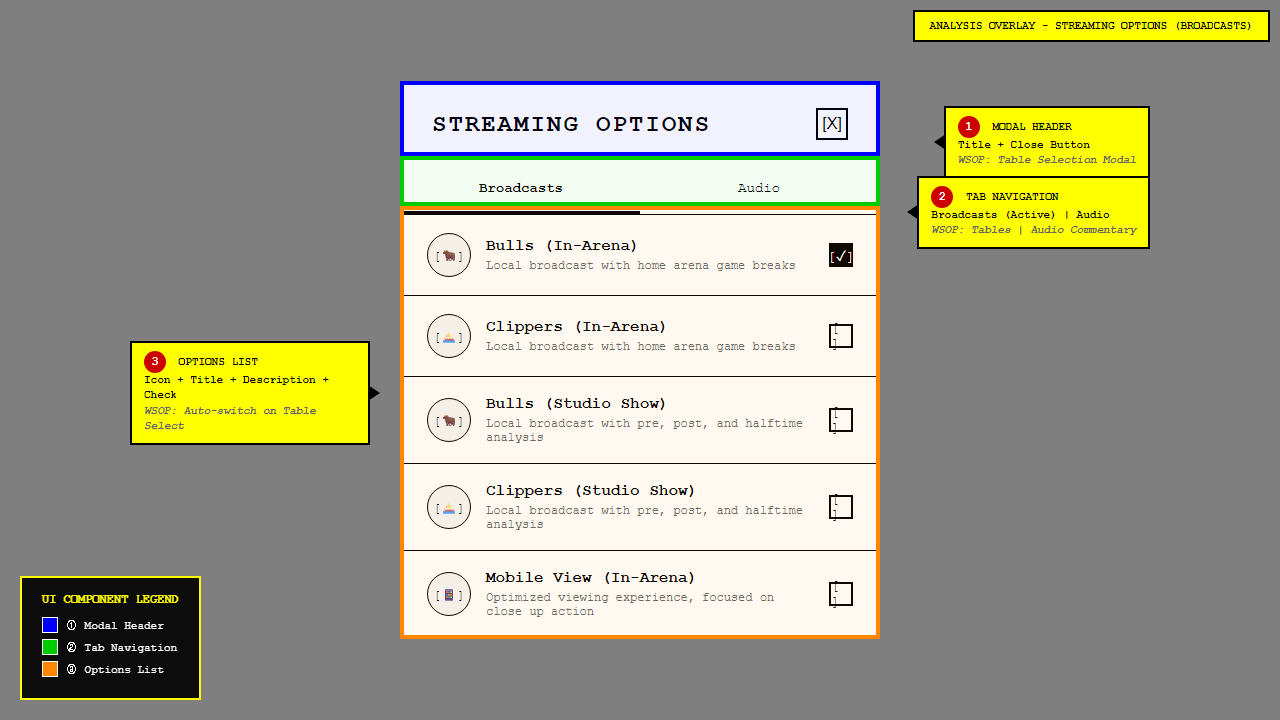
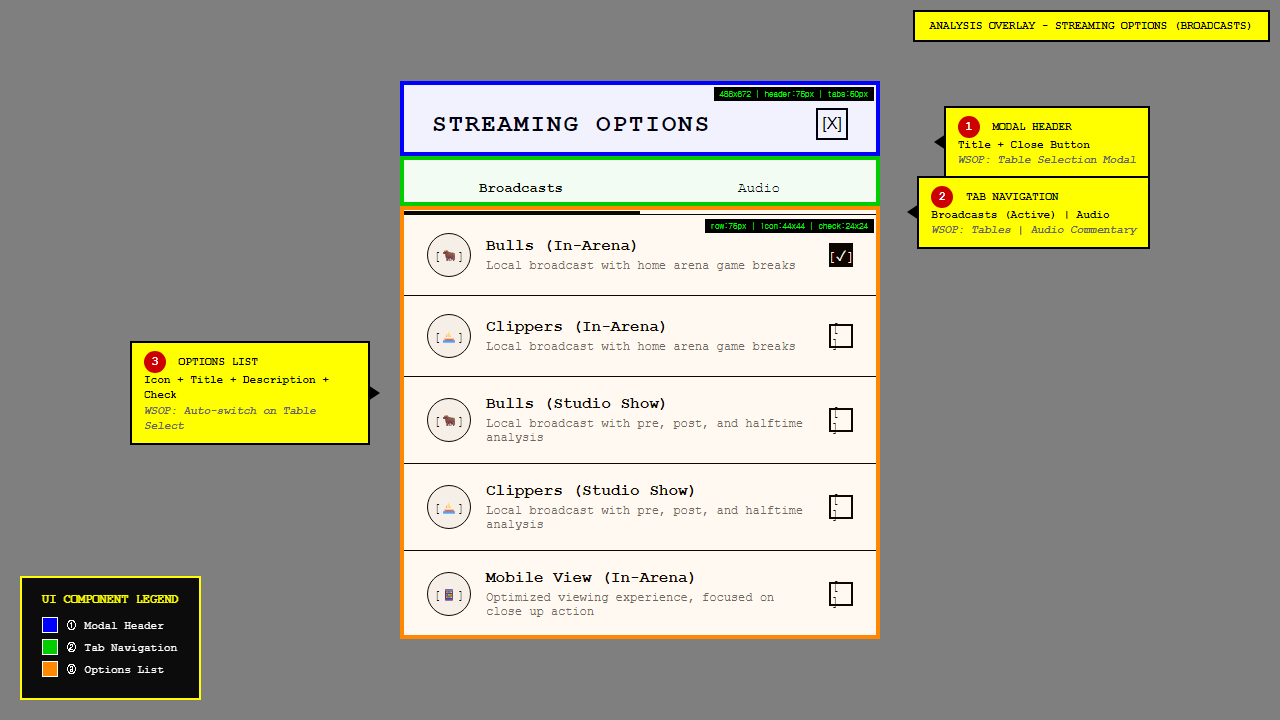
feat(mockups): 분석 목업에 픽셀 크기 오버레이 추가
- 01-main-streaming: 각 섹션별 픽셀 라벨 추가
  (ticker:105px, ad:90px, header:60px, tabs:55px, timeline:40px, controls:65px)
- 02-streaming-options: 모달 크기 라벨 (488x672, row:75px)
- 03-streaming-options-audio: 모달 크기 라벨 (486x674)
- 06-info-summary: 그리드 비율 라벨 (70%:30%)

픽셀 오버레이 스타일: 검정 배경 + 녹색 텍스트 (.px-label)

Changed region(s): [[0.5312, 0.3056, 0.6875, 0.3361], [0.5625, 0.1222, 0.6875, 0.1528]]

diff --git a/docs/mockups/nbatv-analysis/01-main-streaming-analysis.html b/docs/mockups/nbatv-analysis/01-main-streaming-analysis.html
@@ -125,6 +125,23 @@
       border: 1px solid #fff;
     }
 
+    /* ========== PIXEL SIZE LABELS ========== */
+    .px-label {
+      position: absolute;
+      background: #000;
+      color: #0f0;
+      padding: 2px 6px;
+      font-size: 9px;
+      font-family: monospace;
+      z-index: 300;
+      white-space: nowrap;
+    }
+    .px-label.top { top: -18px; left: 50%; transform: translateX(-50%); }
+    .px-label.left { left: -50px; top: 50%; transform: translateY(-50%); writing-mode: vertical-rl; }
+    .px-label.right { right: -50px; top: 50%; transform: translateY(-50%); writing-mode: vertical-rl; }
+    .px-label.bottom { bottom: -18px; left: 50%; transform: translateX(-50%); }
+    .px-label.inner { top: 4px; right: 4px; }
+
     /* ========== SECTION HIGHLIGHT OVERLAYS ========== */
     .wireframe-container {
       position: relative;
@@ -533,6 +550,7 @@
     <!-- 1. SCOREBOARD TICKER -->
     <div class="scoreboard-ticker">
       <div class="section-highlight ticker-hl"></div>
+      <div class="px-label inner">h:105px | date:45px | card:145px</div>
       <div class="ticker-date">
         <span class="day">TUE</span>
         <span>JAN</span>
@@ -643,6 +661,7 @@
     <!-- 2. AD BANNER -->
     <div class="ad-banner">
       <div class="section-highlight ad-hl"></div>
+      <div class="px-label inner">h:90px | img:150x70 | promo:170x70</div>
       <div class="ad-image">[Product Image]<br>H60 Pro</div>
       <div class="ad-content">
         <div class="ad-logo">[Logo]</div>
@@ -655,6 +674,7 @@
     <!-- 3. GAME HEADER -->
     <div class="game-header">
       <div class="section-highlight header-hl"></div>
+      <div class="px-label inner">h:60px | padding:15px 20px</div>
       <div class="game-title">CLIPPERS @ BULLS</div>
       <div class="broadcast-info">
         <span class="icon">[B]</span>
@@ -665,12 +685,14 @@
 
     <!-- 4. VIDEO PLAYER -->
     <div class="video-player">
+      <div class="px-label inner">aspect-ratio:16/9 (~480px @1280w)</div>
       <div class="video-placeholder">[LIVE VIDEO STREAM]</div>
     </div>
 
     <!-- 5. STREAM TABS -->
     <div class="stream-tabs">
       <div class="section-highlight tabs-hl"></div>
+      <div class="px-label inner">h:55px | btn:8px 16px | radius:18px</div>
       <button class="stream-tab active">
         <span class="tab-icon">📡</span>
         Streams
@@ -689,6 +711,7 @@
     <!-- 6. TIMELINE -->
     <div class="timeline">
       <div class="section-highlight timeline-hl"></div>
+      <div class="px-label inner">h:40px | bar:4px</div>
       <div class="timeline-time">01:35:55</div>
       <div class="timeline-bar">
         <div class="timeline-progress"></div>
@@ -699,6 +722,7 @@
     <!-- 7. PLAYER CONTROLS -->
     <div class="player-controls">
       <div class="section-highlight controls-hl"></div>
+      <div class="px-label inner">h:65px | btn:36x36 | large:44x44</div>
       <div class="controls-left">
         <button class="control-btn large">[||]</button>
         <button class="control-btn">[<<]</button>

diff --git a/docs/mockups/nbatv-analysis/06-info-summary-analysis.html b/docs/mockups/nbatv-analysis/06-info-summary-analysis.html
@@ -120,6 +120,19 @@
       border: 1px solid #fff;
     }
 
+    /* ========== PIXEL SIZE LABELS ========== */
+    .px-label {
+      position: absolute;
+      background: #000;
+      color: #0f0;
+      padding: 2px 6px;
+      font-size: 9px;
+      font-family: monospace;
+      z-index: 300;
+      white-space: nowrap;
+    }
+    .px-label.inner { top: 4px; right: 4px; }
+
     /* ========== SECTION OVERLAYS ========== */
     .page-wrapper {
       position: relative;
@@ -382,6 +395,7 @@
     <!-- Info Tabs -->
     <div class="info-tabs">
       <div class="section-highlight tabs-hl"></div>
+      <div class="px-label inner">h:50px | tab:15px 30px</div>
       <div class="info-tab active">Summary</div>
       <div class="info-tab">Box Score</div>
       <div class="info-tab">Game Charts</div>
@@ -391,6 +405,7 @@
     <!-- Ad Banner -->
     <div class="ad-banner">
       <div class="section-highlight ad-hl"></div>
+      <div class="px-label inner">h:90px</div>
       <div class="ad-image">[Product]<br>H60 Pro</div>
       <div class="ad-text">[AD TEXT: Product Description Here]</div>
       <button class="ad-cta">OPEN</button>
@@ -401,6 +416,7 @@
       <!-- Article Section -->
       <div class="article-section">
         <div class="section-highlight article-hl"></div>
+        <div class="px-label inner">w:70% | padding:30px</div>
         <h1 class="article-title">BULLS ENDEAVOR TO REVERSE SERIES TREND AGAINST CHARGING CLIPPERS</h1>
         <div class="article-meta">Tuesday, January 20th, 2026 11:20 AM</div>
         <span class="article-tag">Game Preview</span>
@@ -427,6 +443,7 @@
       <!-- Sidebar -->
       <div class="sidebar">
         <div class="section-highlight sidebar-hl"></div>
+        <div class="px-label inner">w:30% | infoRow:50px</div>
         <div class="sidebar-section">
           <div class="sidebar-title">GAME INFO</div>
           <div class="info-row">

diff --git a/docs/mockups/nbatv-analysis/02-streaming-options-broadcasts-analysis.html b/docs/mockups/nbatv-analysis/02-streaming-options-broadcasts-analysis.html
@@ -117,6 +117,19 @@
       border: 1px solid #fff;
     }
 
+    /* ========== PIXEL SIZE LABELS ========== */
+    .px-label {
+      position: absolute;
+      background: #000;
+      color: #0f0;
+      padding: 2px 6px;
+      font-size: 9px;
+      font-family: monospace;
+      z-index: 300;
+      white-space: nowrap;
+    }
+    .px-label.inner { top: 4px; right: 4px; }
+
     /* ========== SECTION OVERLAYS ========== */
     .modal-wrapper {
       position: relative;
@@ -294,6 +307,7 @@
     </div>
 
     <div class="modal">
+      <div class="px-label inner">488x672 | header:75px | tabs:50px</div>
       <div class="modal-header">
         <span class="modal-title">STREAMING OPTIONS</span>
         <button class="modal-close">[X]</button>
@@ -302,7 +316,8 @@
         <div class="modal-tab active">Broadcasts</div>
         <div class="modal-tab">Audio</div>
       </div>
-      <div class="options-list">
+      <div class="options-list" style="position:relative;">
+        <div class="px-label inner">row:75px | icon:44x44 | check:24x24</div>
         <div class="option-item">
           <div class="option-icon">[🐂]</div>
           <div class="option-info">

diff --git a/docs/mockups/nbatv-analysis/03-streaming-options-audio-analysis.html b/docs/mockups/nbatv-analysis/03-streaming-options-audio-analysis.html
@@ -117,6 +117,19 @@
       border: 1px solid #fff;
     }
 
+    /* ========== PIXEL SIZE LABELS ========== */
+    .px-label {
+      position: absolute;
+      background: #000;
+      color: #0f0;
+      padding: 2px 6px;
+      font-size: 9px;
+      font-family: monospace;
+      z-index: 300;
+      white-space: nowrap;
+    }
+    .px-label.inner { top: 4px; right: 4px; }
+
     /* ========== SECTION OVERLAYS ========== */
     .modal-wrapper {
       position: relative;
@@ -265,6 +278,7 @@
       <div class="section-overlay header"></div>
       <div class="section-overlay tabs"></div>
       <div class="section-overlay radio"></div>
+      <div class="px-label inner">486x674 | header:75px | radio:55px/row</div>
       <div class="modal-header">
         <span class="modal-title">STREAMING OPTIONS</span>
         <button class="modal-close">[X]</button>
